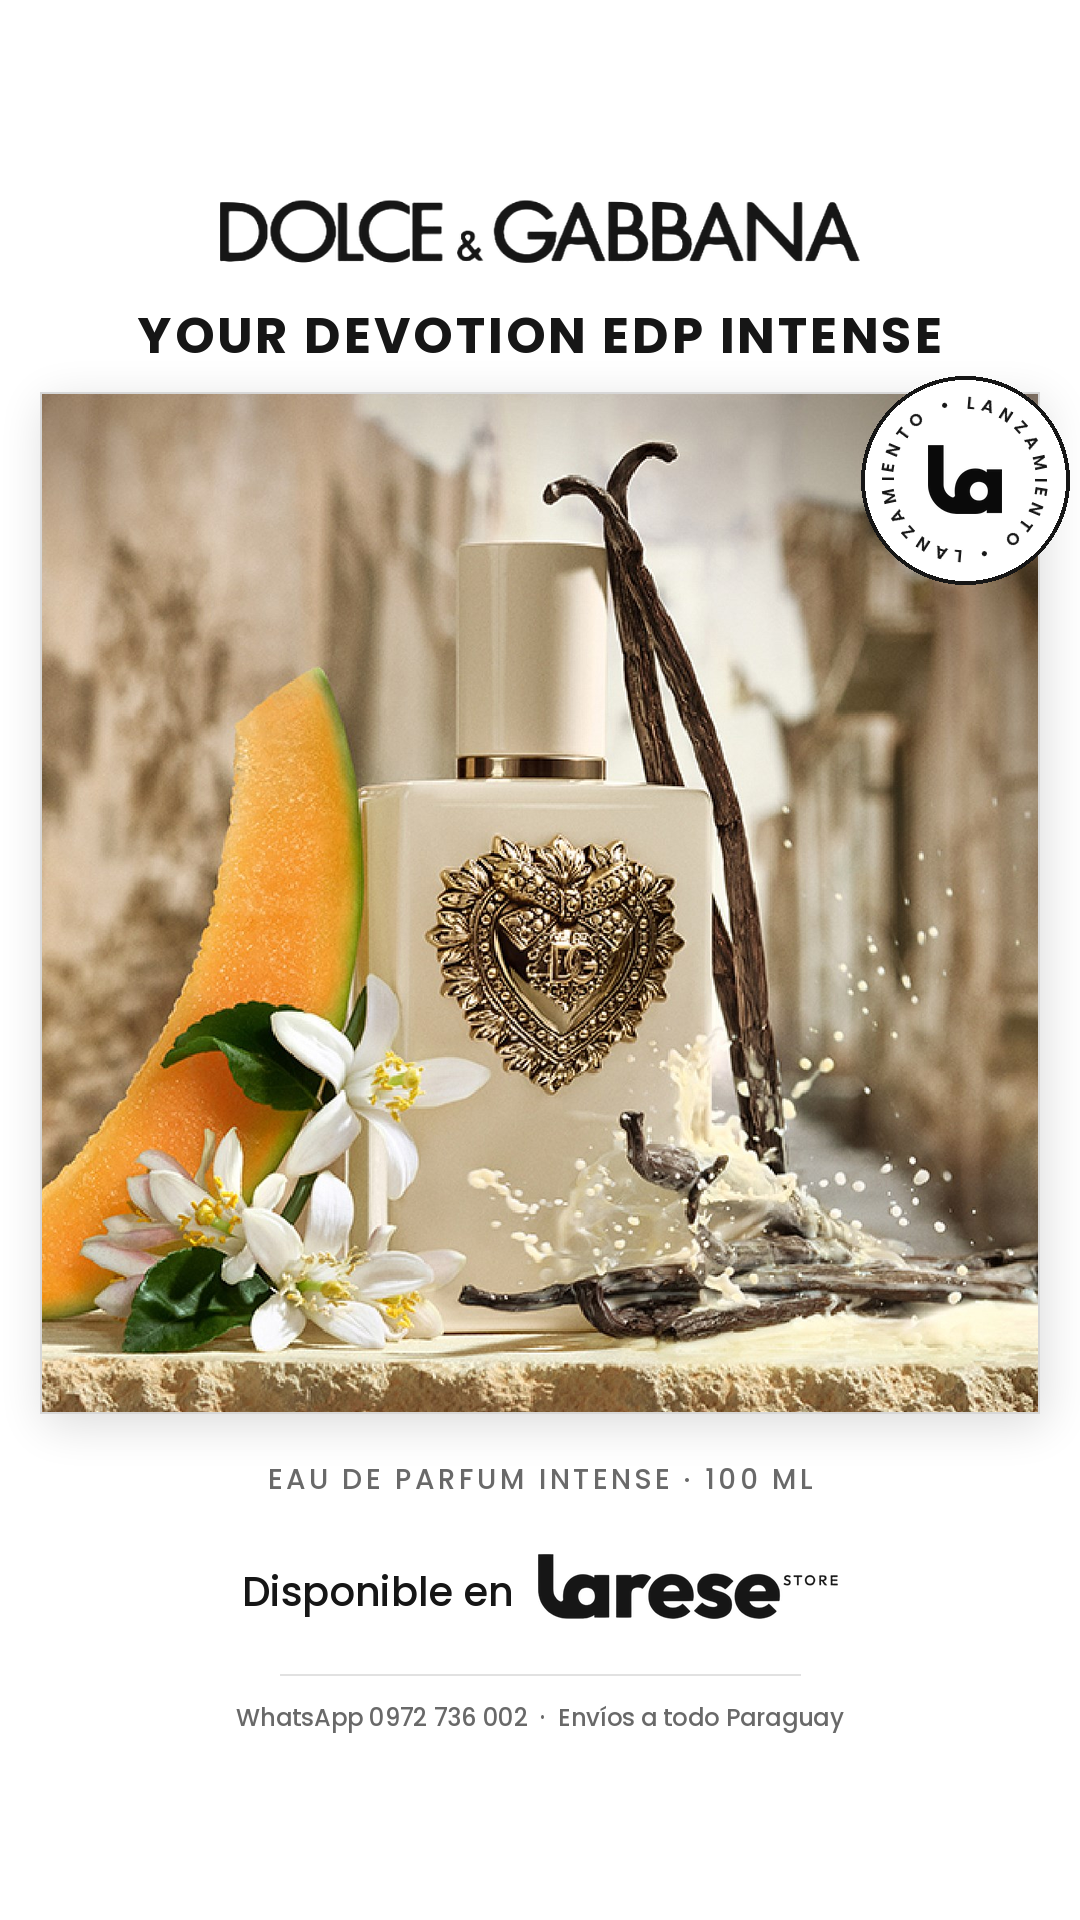
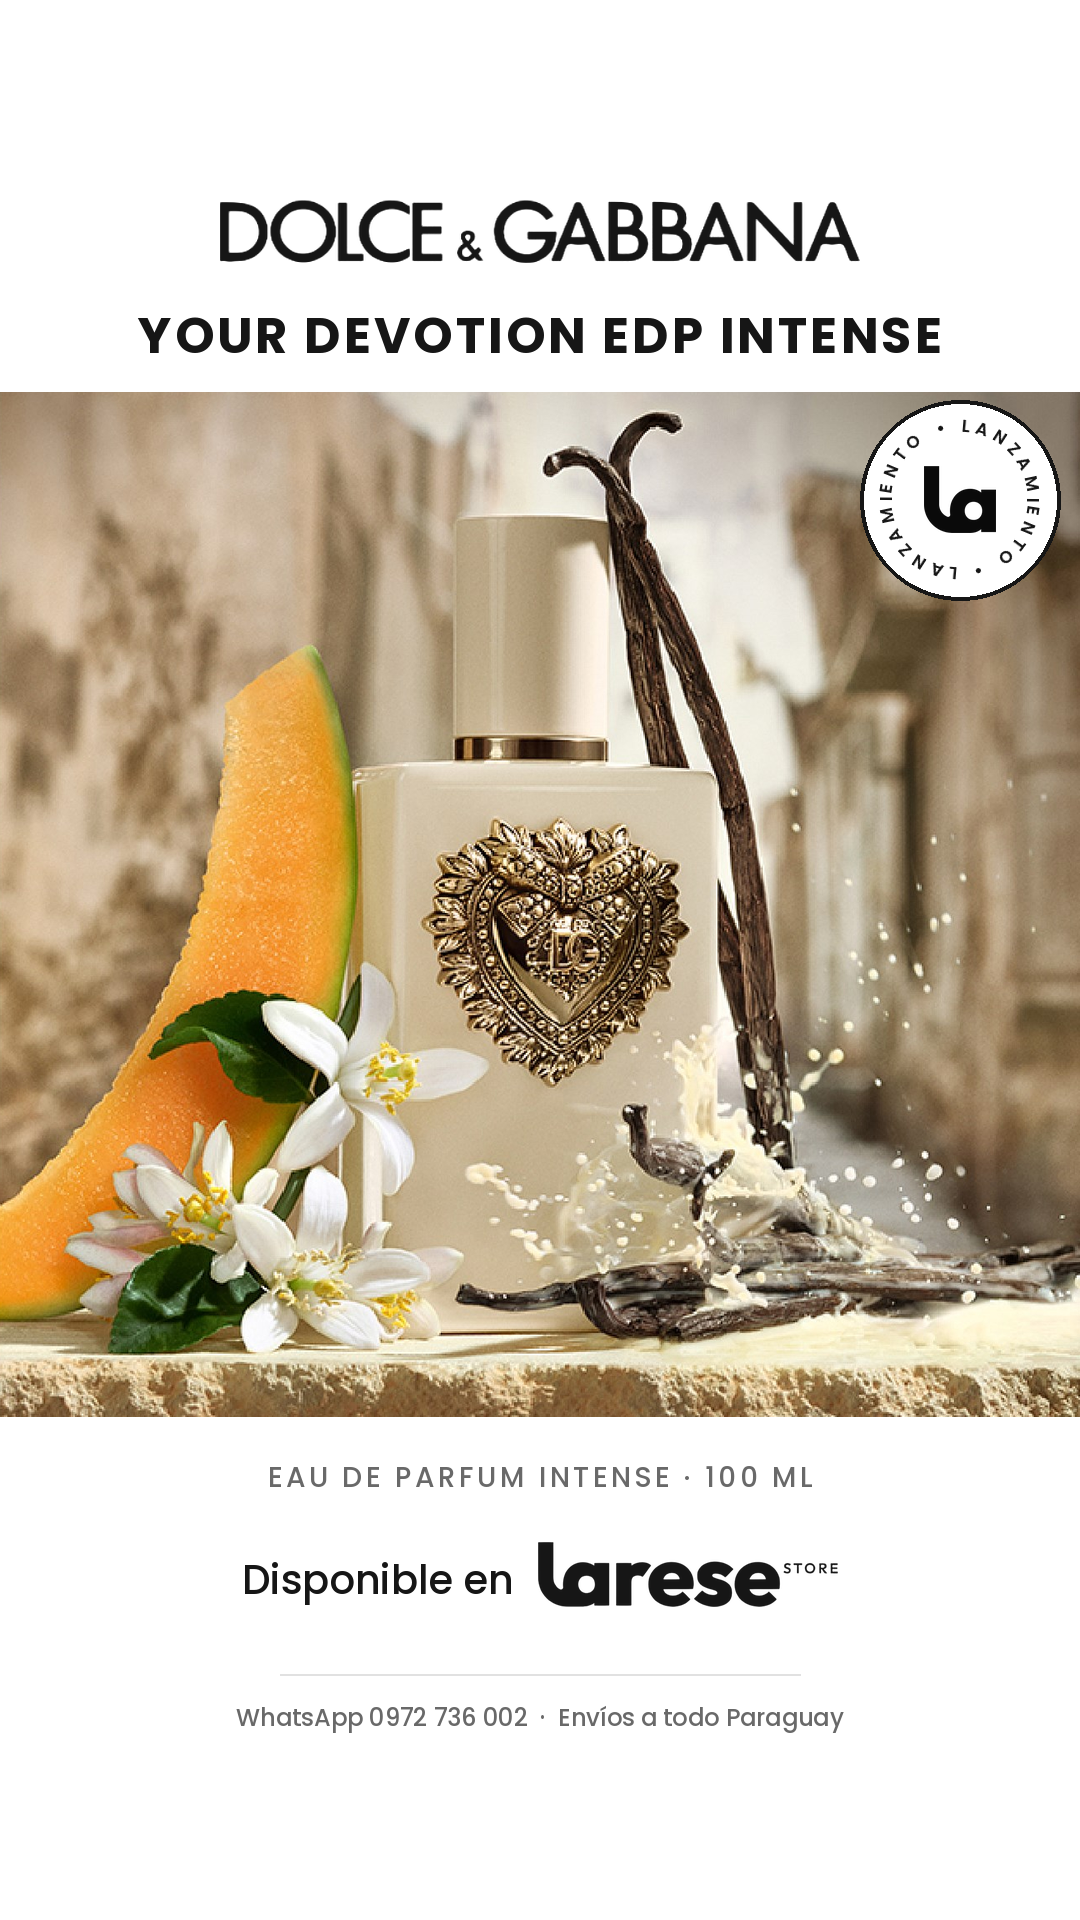
Make Your Devotion photo full-width, edge to edge, showing the whole scene
Claude-Session: https://claude.ai/code/session_01DnzkNLBCvMq4y8uu7fepTP

Changed region(s): [[0.0, 0.1875, 1.0, 0.7812], [0.2139, 0.7812, 0.7639, 0.8438], [0.1528, 0.1875, 0.2139, 0.25]]

diff --git a/lanzamientos/crear_lanzamiento_foto.py b/lanzamientos/crear_lanzamiento_foto.py
@@ -38,11 +38,12 @@ from crear_pieza import (  # noqa: E402
 
 MEDIDAS = {
     "historia": dict(size=(1080, 1920), marca_y=200, marca_w=640, titulo_y=300, titulo_t=50,
-                     foto=(40, 392, 1040), alto_max=1030, recuadro=310, sello=(965, 480, 104),
+                     foto=(0, 392, 1080), alto_max=1030, recuadro=310, sello=(960, 500, 100),
                      medida_t=46, pie_y=1700),
-    "post": dict(size=(1080, 1350), marca_y=48, marca_w=500, titulo_y=124, titulo_t=40,
-                 foto=(60, 192, 1020), alto_max=850, recuadro=265, sello=(985, 262, 84),
-                 medida_t=38, pie_y=1282),
+    "post": dict(size=(1080, 1350), marca_y=34, marca_w=430, titulo_y=96, titulo_t=34,
+                 foto=(0, 148, 1080), alto_max=945, recuadro=265, sello=(985, 238, 78),
+                 logo_w=215,
+                 medida_t=38, pie_y=1300),
 }
 
 
@@ -82,10 +83,13 @@ def armar(SPEC, formato):
         arriba = int(sobra * 0.35)
         foto = foto.crop((0, arriba, fw, arriba + M["alto_max"]))
     fy1 = fy0 + foto.height
-    sombra(img, (fx0, fy0, fx1, fy1), 22, 0.14)
+    a_lo_ancho = fx0 == 0 and fx1 == w  # foto de borde a borde: sin marco ni sombra
+    if not a_lo_ancho:
+        sombra(img, (fx0, fy0, fx1, fy1), 22, 0.14)
     img.alpha_composite(foto.convert("RGBA"), (fx0, fy0))
     d = ImageDraw.Draw(img)
-    d.rectangle((fx0, fy0, fx1 - 1, fy1 - 1), outline=(215, 215, 215), width=2)
+    if not a_lo_ancho:
+        d.rectangle((fx0, fy0, fx1 - 1, fy1 - 1), outline=(215, 215, 215), width=2)
 
     # recuadro con frasco y caja, montado sobre la esquina de abajo a la derecha
     R = M["recuadro"]
@@ -110,14 +114,14 @@ def armar(SPEC, formato):
     if not SPEC.get("recuadro"):
         # sin recuadro: detalle + tamaño centrado, y "Disponible en" + logo en una fila
         d = ImageDraw.Draw(img)
-        y = fy1 + M["titulo_t"] * 0.9
+        y = fy1 + M["titulo_t"] * 0.8
         detalle = SPEC.get("detalle") or SPEC.get("medida", "")
         if detalle:
             fdet = fuente(M["titulo_t"] * 0.58, "Medium")
             txt(d, cx, y, detalle.upper(), fdet, GRIS, esp=M["titulo_t"] * 0.07)
-            y += alto_linea(fdet) + M["titulo_t"] * 1.1
+            y += alto_linea(fdet) + M["titulo_t"] * 0.9
         fdisp = fuente(M["titulo_t"] * 0.8, "Medium")
-        logo = logo_mascara("texto", 300 if formato == "historia" else 250)
+        logo = logo_mascara("texto", M.get("logo_w", 300))
         gap = 24
         wt = ancho_txt(d, "Disponible en", fdisp)
         xi = cx - (wt + gap + logo.width) / 2
